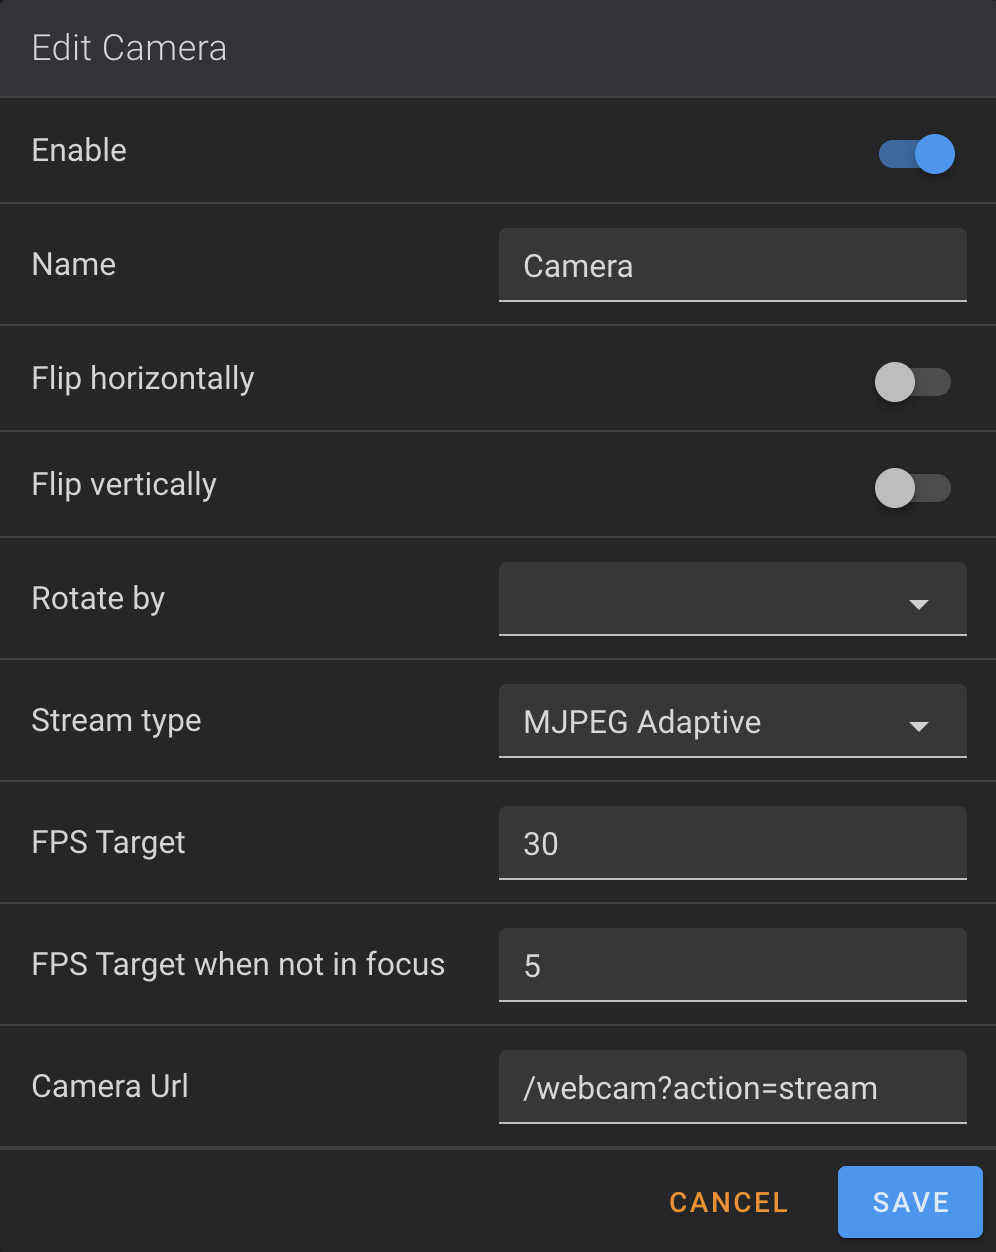
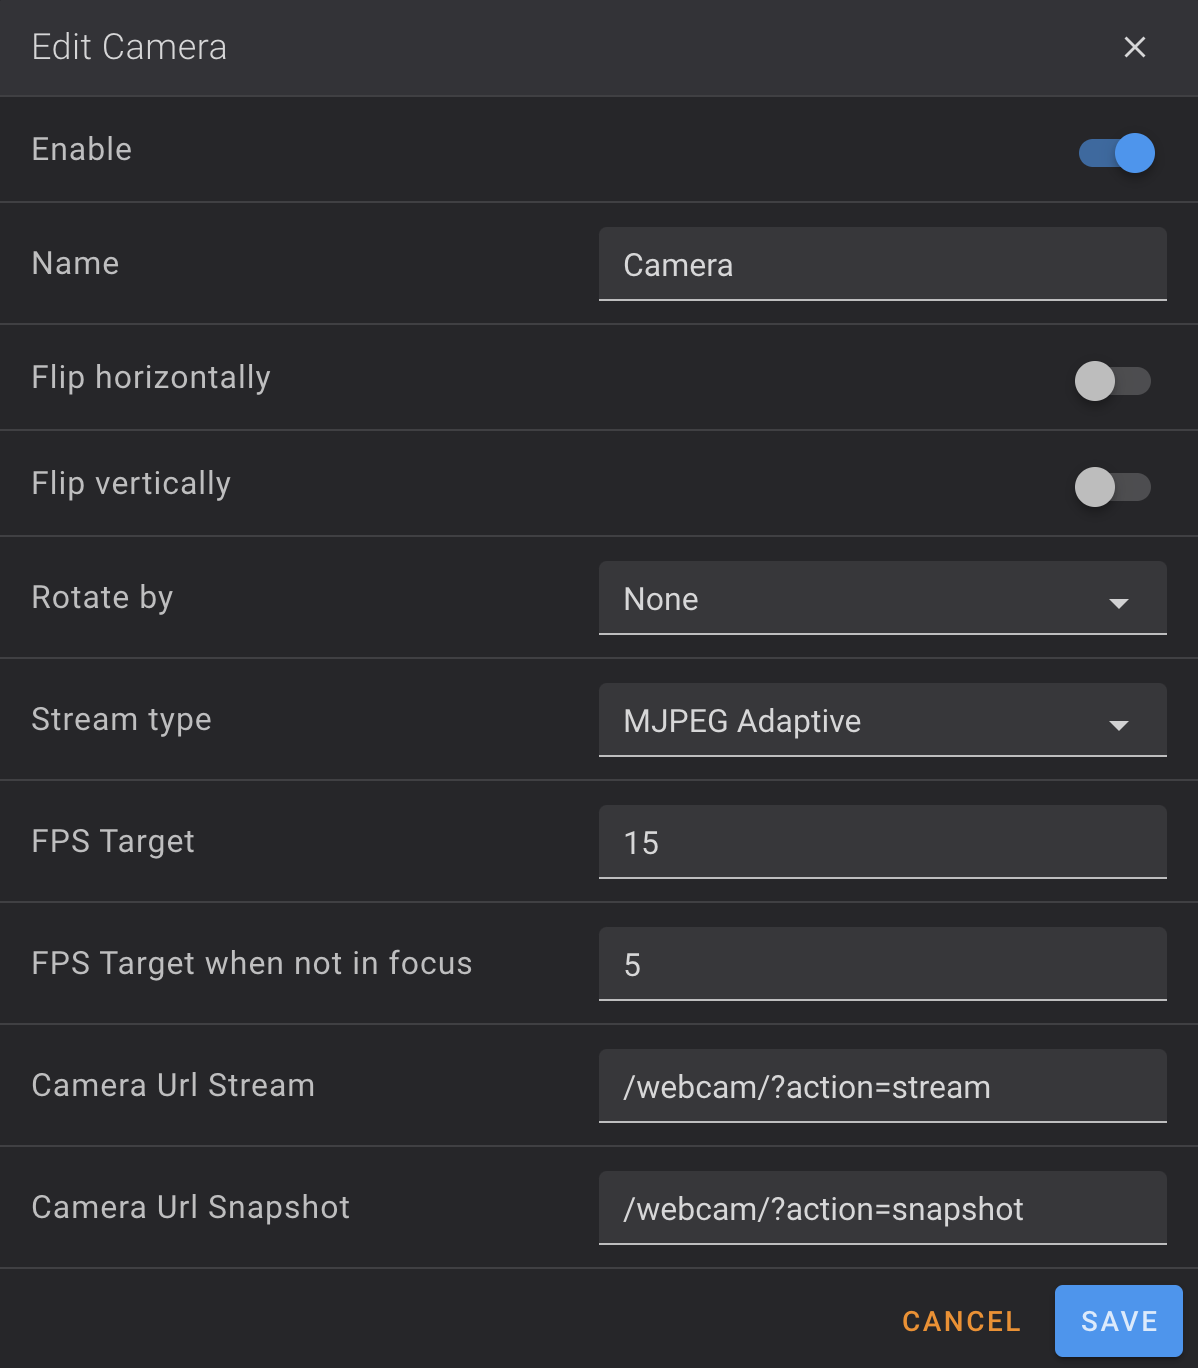
Update

diff --git a/docs/configurations/configure-camera.md b/docs/configurations/configure-camera.md
@@ -14,15 +14,9 @@
 
 - Go to `Interface Settings` at the top right of the window and in `WEBCAMS` section.
 
-- Configure your webcam like this:
+- Configure your webcam like with these settings:
 
     <img width="899" src="../../assets/img/Configure-Camera/Mainsail_Camera.png">
-
-- Replacing xxx.xxx.xxx.xxx by your local IP address:
-
-    - **URL Stream:** `http://xxx.xxx.xxx.xxx:4409/webcam/?action=stream`
-    - **URL Snapshot:** `http://xxx.xxx.xxx.xxx:4409/webcam/?action=snapshot`
-    - **Service:** `MJPEG-Streamer` or `Adaptative MJPEG-Streamer (experimental)`
 
 
 ### Configure Camera in Moonraker

diff --git a/docs/helper-script/guppyflo.md b/docs/helper-script/guppyflo.md
@@ -84,7 +84,7 @@ More info about Tailscale: :material-web: [Here](https://tailscale.com/)
 - You can also configure Mobileraker App for remote access, see <a href="../mobileraker-companion/#add-printer-remote-access-with-guppyflo">here</a>.
 
 !!! Note
-    **For now camera not working remotely on Fluidd or Mainsail Web interface and it will be fixed in future release of GuppyFLO.**
+    **The camera works remotely only when configured on the Fluidd or Mainsail web interface. See the [Configure Camera](../../configurations/configure-camera.md) section.**
 
 
 <br />

diff --git a/docs/helper-script/mobileraker-companion.md b/docs/helper-script/mobileraker-companion.md
@@ -83,7 +83,7 @@ More info about Mobileraker: :material-web: [Here](https://mobileraker.com/)
 - Your printer is now added to Mobileraker for remote access.
 
 !!! Note
-    **For now camera not working remotely and it will be fixed in future release of GuppyFLO.**
+    **The camera works remotely only when configured on the Fluidd or Mainsail web interface. See the [Configure Camera](../../configurations/configure-camera.md) section.**
 
 
 ## Configurations
